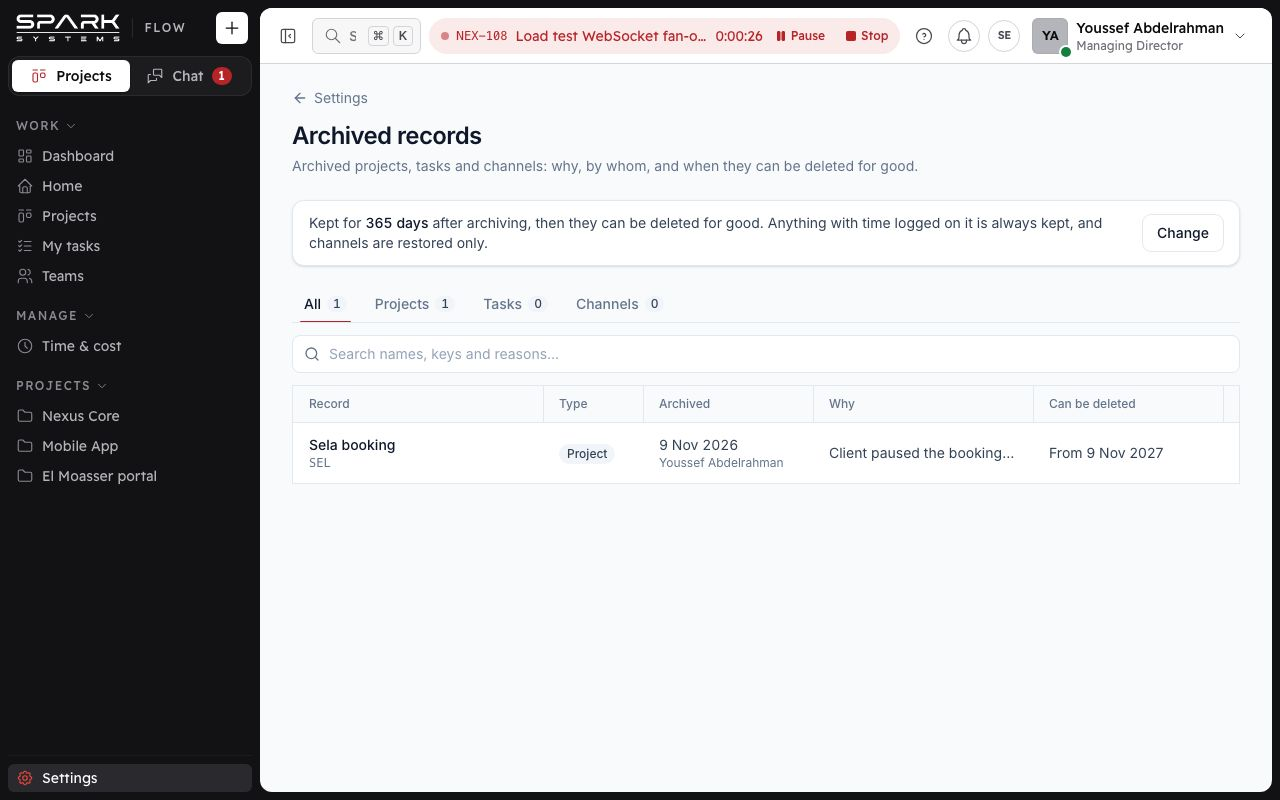
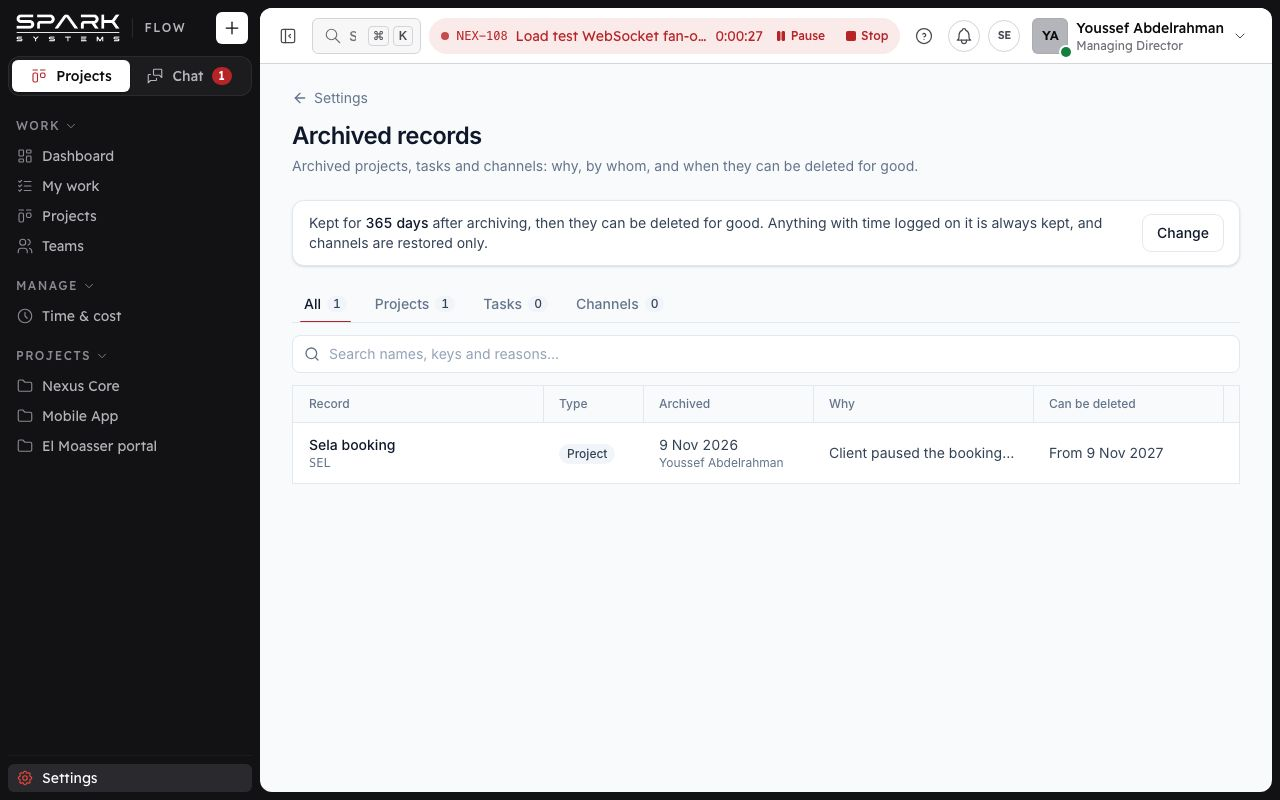
docs(ux): Phase 2 review and help pictures

diff --git a/tasks/todo.md b/tasks/todo.md
@@ -2752,19 +2752,33 @@ Audit `docs/ux-audit/2026-11-09-ui-ux-audit.md` (items 1.1–1.7). Plan with dec
   estimate shows both reasons on their own lines; the Chat tab keeps an 18rem floor and the page scrolls to it on a
   short screen (phone on its side: composer reachable). Six minors deferred (see the final report).
 
-# UX Phase 2: navigation and IA — 9 Nov 2026, started ("Start Phase 2"); plan waits for answers
+# UX Phase 2: navigation and IA — 9 Nov 2026, approved (Q1–Q5 "Yes, recommended")
 
 Audit items 2.1–2.8 with the user's rulings: Dashboard stays everyone's start page, Home and My tasks merge into My
 work; Settings, Preferences and Help always use the Projects sidebar. Plan with decisions, a diagram and questions:
 `docs/superpowers/plans/2026-11-09-ux-phase-2-navigation-ia.md`. Branch `feat/ux-phase-2` from `origin/dev` (c2e6cb9).
 
-- [ ] Settings, Preferences and Help on the Projects side (2.2)
-- [ ] My work joins Home and My tasks; "Go to Dashboard" (2.1)
-- [ ] Task items for me in mentions and Activity (2.3, mock)
-- [ ] The bell and Activity show task news, with See all (2.3)
-- [ ] Teams can be made, renamed and removed (2.4, Api)
-- [ ] The Teams page manages teams; Settings tiles are links (2.4, 2.8)
-- [ ] One Files list per project; the workspace button names the workspace (2.5, 2.6)
-- [ ] Filters, tabs and project sheets live in the address (2.7)
-- [ ] No Soon items; Not found has a heading (2.8)
-- [ ] Phase check, help pictures, review here
+- [x] Settings, Preferences and Help on the Projects side (2.2)
+- [x] My work joins Home and My tasks; "Go to Dashboard" (2.1)
+- [x] Task items for me in mentions and Activity (2.3, mock)
+- [x] The bell and Activity show task news, with See all (2.3)
+- [x] Teams can be made, renamed and removed (2.4, Api)
+- [x] The Teams page manages teams; Settings tiles are links (2.4, 2.8)
+- [x] One Files list per project; the workspace button names the workspace (2.5, 2.6)
+- [x] Filters, tabs and project sheets live in the address (2.7)
+- [x] No Soon items; Not found has a heading (2.8)
+- [x] Phase check, help pictures, review here
+
+## Review — UX Phase 2
+- Gates: `tsc -b` and lint clean; unit 2,191/2,191; `build:prototype` passes. Browser: the known `RichComposer`
+  "unknown /word" failure and the worktree-only `MessageList` "Jump to latest" ×2; `GlobalSearch.browser` failed to
+  load once in the full run (a first-load dynamic import) and passes on its own.
+- App check (Playwright on this branch's `npm run dev`, port 5176), Member in light, dark and at 390, Admin at 1440:
+  My work with My tasks and Mentions; the bell shows "commented on NEX-105" and See all opens Activity, whose Tasks
+  tab keeps `?tab=task`; the workspace button names the workspace (from 1440px); a project's chat has no Files tab;
+  Settings after a channel shows the Projects sidebar; an Admin makes "Data" and is told "Take Backend off Nexus Core
+  first."; Projects' Overdue tile is a step Back undoes; `?new=task` opens New task. No sideways scroll; axe shows
+  only the known sidebar `list` finding (Phase 5). Console 403s are Vite refusing the linked node_modules' fonts in
+  the worktree only.
+- Help pictures retaken; the 1280 picture showed the named workspace button crowding the top bar beside a running
+  timer, so the name now shows from 1440px.
